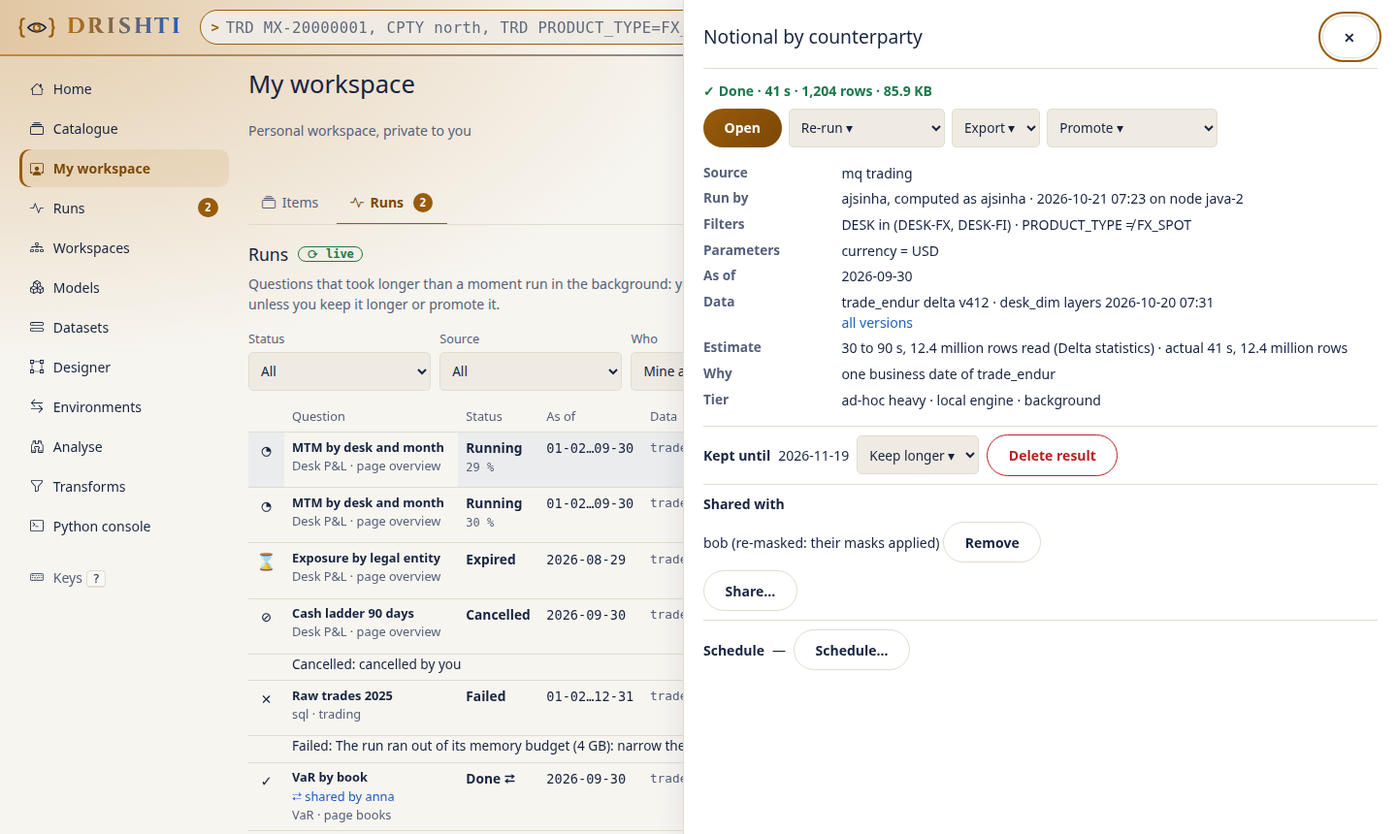
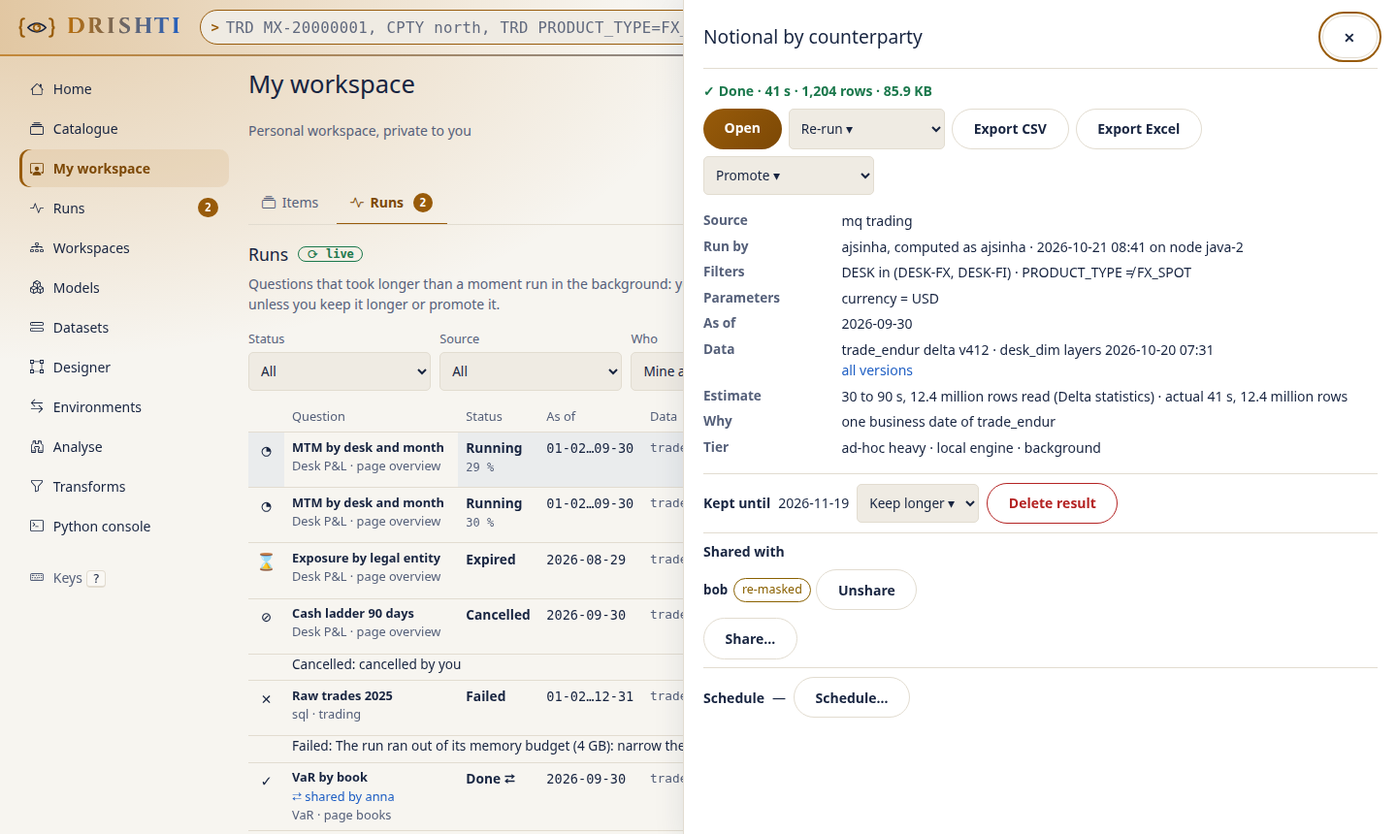
Docs: BI runs sharing (each recipient's mode, unshare, the recipient's view), schedules (presets, the grammar, edit, pause, remove), export (CSV, Excel) and rollup suggestions (Accept, Dismiss, the model designer's notice) in BI_RUNS_GUIDE with two new screenshots (run-share-schedule.png, rollup-sug

Changed region(s): [[0.5, 0.1512, 0.9688, 0.8465], [0.6562, 0.1209, 0.875, 0.1814], [0.5, 0.8163, 0.5625, 0.8465]]

diff --git a/drishti-console/tests/bi_runs_shots.py b/drishti-console/tests/bi_runs_shots.py
@@ -13,7 +13,8 @@
 # See the LICENSE file in the root of this repository for the full terms.
 
 """The pictures of BI runs for docs/guides/BI_RUNS_GUIDE.md, from the stand-in server of bi_runs_backend.py (synthetic data only):
-the Runs tab in a Terminal theme, the run card on a report while its run runs, and the drawer of a finished run in the light theme.
+the Runs tab in a Terminal theme, the run card on a report while its run runs, the drawer of a finished run in the light theme, its sharing and schedule
+in the Terminal theme, and the rollup suggestions of Admin → BI → Runs.
 
   drishti-console/.venv/bin/python drishti-console/tests/bi_runs_shots.py     (writes docs/guides/img/bi-runs/*.png)
 """
@@ -65,6 +66,38 @@ def main() -> None:
             page.evaluate("document.documentElement.setAttribute('data-theme', 'light')")
             page.wait_for_timeout(800)
             page.screenshot(path=str(OUT / "run-drawer-light.png"))
+
+            # sharing and a schedule: each recipient's mode as the server decided it, the next firing, the schedule form's presets
+            done["shared"]["with"] = [{"recipient": "bob", "mode": "re-masked", "recipientRun": None}, {"recipient": "dave", "mode": "same", "recipientRun": None},
+                                      {"recipient": "carol", "mode": "recomputed", "recipientRun": "r-java-2-01JAC4Q8Z6T3M4R9B0X1Y00042"}]
+            backend.schedules["sch-1"] = {"id": "sch-1", "runId": done["id"], "title": done["title"], "source": done["source"], "schedule": "business-days 07:30", "data": "latest",
+                                          "enabled": True, "lastRun": None, "nextAt": "2026-10-22T07:30:00Z", "createdAt": "2026-10-21T09:00:00Z", "owner": backend.user}
+            done["schedule"] = {k: v for k, v in backend.schedules["sch-1"].items() if k != "owner"}
+            page = ctx.new_page()
+            page.set_viewport_size({"width": 1440, "height": 1000})
+            page.goto(url + f"/bi/w/me?tab=runs&run={done['id']}")
+            page.wait_for_selector("[data-run-drawer]:not([hidden]) [data-run-share='carol']", timeout=15000)
+            page.evaluate("document.documentElement.setAttribute('data-theme', 'terminal')")
+            page.click("[data-run-sched-edit]")
+            page.select_option("[data-run-sched-form] select[name=kind]", "weekly")
+            page.select_option("[data-run-sched-form] select[name=day]", "mon")
+            page.fill("[data-run-sched-form] input[name=time]", "08:00")
+            page.evaluate("document.querySelector('[data-run-drawer]').scrollTop = 10000")
+            page.wait_for_timeout(800)
+            page.locator("[data-run-drawer]").screenshot(path=str(OUT / "run-share-schedule.png"))
+
+            # Admin → BI → Runs: the repeated heavy questions with Accept and Dismiss, one rollup's YAML open
+            page = ctx.new_page()
+            page.set_viewport_size({"width": 1440, "height": 900})
+            page.goto(url + "/admin/bi/runs#suggestions")
+            page.wait_for_selector('[data-sugg="sg-1"] [data-sugg-accept]', timeout=15000)
+            page.click('[data-sugg="sg-1"] summary')
+            page.evaluate("document.documentElement.setAttribute('data-theme', 'light')")
+            page.wait_for_timeout(800)
+            page.set_viewport_size({"width": 1440, "height": 640})
+            page.evaluate("window.scrollTo(0, document.getElementById('suggestions').getBoundingClientRect().top + window.scrollY - 90)")
+            page.wait_for_timeout(300)
+            page.screenshot(path=str(OUT / "rollup-suggestions.png"))
             b.close()
     finally:
         stop()

diff --git a/docs/guides/BI_RUNS_GUIDE.md b/docs/guides/BI_RUNS_GUIDE.md
@@ -26,8 +26,9 @@ is ready. A slicer, a cross-filter or a drill on a dashboard never becomes a run
 
 1. [The run card](#the-run-card) · 2. [Confirming a large run](#confirming-a-large-run) · 3. [A selection that needs a run](#a-selection-that-needs-a-run) ·
 4. [The Runs tab](#the-runs-tab) · 5. [One run: the drawer](#one-run-the-drawer) · 6. [Sharing a run](#sharing-a-run) ·
-7. [Promote a run](#promote-a-run) · 8. [The bell and the inbox](#the-bell-and-the-inbox) · 9. [On the command line](#on-the-command-line) ·
-10. [The Admin page for runs](#the-admin-page-for-runs) · 11. [The words for each state](#the-words-for-each-state)
+7. [Schedules](#schedules) · 8. [Export](#export) · 9. [Promote a run](#promote-a-run) · 10. [The bell and the inbox](#the-bell-and-the-inbox) ·
+11. [On the command line](#on-the-command-line) · 12. [The Admin page for runs](#the-admin-page-for-runs) ·
+13. [Rollup suggestions](#rollup-suggestions) · 14. [The words for each state](#the-words-for-each-state)
 
 ## The run card
 
@@ -42,6 +43,7 @@ The card says:
 * **Progress**, as a bar with its percentage and what is happening ("building 12 of 41 dates"). Progress is measured, never guessed. When the
   server cannot measure it, the card says "progress is not measured for this one" and shows no bar.
 * **Cancel** stops the run and frees everything it holds at once. **Open in Runs** opens the run in the [Runs tab](#the-runs-tab).
+* **Export CSV** and **Export Excel**, once the run is done (see [Export](#export)).
 
 When the run finishes while the page is open, the card turns into the chart without a reload. If you have left the page, the bell counts
 the run (see [the bell](#the-bell-and-the-inbox)).
@@ -113,26 +115,71 @@ server decides what each person may do with a run, and the drawer shows only tho
 | **Re-run ▾ on the same data** | The same question on the same dates and data versions. When the result is still stored, it is **reused** at once. |
 | **Re-run ▾ on the newest data** | The same question with relative dates (this year, latest) worked out again. |
 | **Cancel** | Stops a queued or running run. Its row says *Cancelled: cancelled by you*. |
-| **Export ▾** | CSV, Excel, Parquet, and PDF for a report visual, from the stored result: nothing is computed again. Masked cells stay masked. |
+| **Export CSV** · **Export Excel** | The stored result as a file, your own version of it: nothing is computed again, masked cells stay masked (see [Export](#export)). |
 | **Promote ▾** | To a dataset snapshot or a report, as a draft for review (see [Promote a run](#promote-a-run)). |
 | **Keep longer** | 90 days, 180 days or a year, instead of the 30 days after the last open. |
 | **Delete result** | Removes the stored result now. The run stays listed, as expired. |
-| **Share…** | See [Sharing a run](#sharing-a-run). |
-| **Schedule…** | The same question on a schedule (`daily 07:00`, `business-days 07:30`, `monthly last 18:00 business`, `after-load TRD`), on the newest data or the same dates. Each firing is a run and a notice. |
+| **Share…** · **Unshare** | See [Sharing a run](#sharing-a-run). |
+| **Schedule…** · **Edit** · **Pause** · **Remove** | See [Schedules](#schedules). |
 | **Run in background / Discard** | For a run waiting for your confirmation. |
 
 An expired run says when its result was removed, and offers both re-runs.
 
 ## Sharing a run
 
-**Share…** takes names and roles (`bob, role:risk-team`). A share never hands over your result as such. Each recipient gets what their own
-rights allow, and the drawer says which:
+![The drawer of a shared, scheduled run in the Terminal theme: bob re-masked, dave sees the same, carol recomputed as them with her own run; the schedule business-days 07:30 with its next firing, and the schedule form set to weekly on Monday at 08:00](img/bi-runs/run-share-schedule.png)
 
-* **sees your result**: they have exactly your rights;
-* **re-masked**: they see the same rows with their own extra masks applied (a masked column shows the mask, never a value);
-* **their own run**: their rights differ, so the question runs again as them, and they are told when it is ready.
+**Share…** opens a box with the people picker: type two letters of a name or a role and choose it (`↑` `↓`, `Enter`), and it becomes a
+chip; `×` takes it off. You can also type names, comma separated (`bob, role:risk-team`). A role is expanded to its members when you share.
+**Share** sends it. A share never hands over your result as such. The server decides, for each person, what their own rights allow, and
+the drawer lists each recipient with that decision:
 
-Ten people of one desk with equal rights cost one recomputation, not ten. **Remove** stops sharing with one person.
+| Shown as | Meaning |
+|---|---|
+| **sees the same** | they have exactly your rights: they read your stored result |
+| **re-masked** | the same rows with their own extra masks applied: a masked column shows the mask, never a value |
+| **recomputed as them** | their rights differ, so the question runs again as them (the drawer names their run), and they are told when it is ready |
+
+A person who may not read the model gets no share, and the drawer says so in words with the code ("Not shared with eve (DRS-9021)").
+Ten people of one desk with equal rights cost one recomputation, not ten. The decision is taken again each time they read it, so a
+recipient whose rights narrowed since is told to re-run it, never shown the wider answer.
+
+**Unshare** beside a recipient stops sharing with that person. A run recomputed as them stays theirs.
+
+**What a recipient sees.** The run is in their own Runs tab (**Who** set to *shared with me* or *both*), marked **⇄ shared by anna**. Its
+drawer says "Shared with you by anna. Masks hold: you see what your own rights allow." They can open and export it (their own version);
+sharing on, scheduling and deleting stay with the owner. The bell tells them when it was shared.
+
+## Schedules
+
+**Schedule…** in the drawer asks the same question again on a schedule, as you, at the time it fires (if you lose access, the firing fails
+and you are told; it never borrows anyone's rights). Choose how often from the presets and the form writes the schedule for you, shown
+under it ("Writes `weekly mon 08:00`"):
+
+| Preset | Writes |
+|---|---|
+| Daily at | `daily 07:00` |
+| Weekdays at | `weekdays 07:30` (Monday to Friday) |
+| Business days at | `business-days 07:30` (the calendar's business days) |
+| Weekly on | `weekly mon 08:00` |
+| Monthly, the last day at | `monthly last 18:00` |
+| Monthly, the last business day at | `monthly last 18:00 business` |
+| Written out | anything in the same grammar, typed |
+
+The grammar is the subscriptions' one ([API_GUIDE.md](API_GUIDE.md), `POST /api/v1/bi/runs/{id}/schedule`); `after-load` is not offered
+for runs. **On** chooses the newest data (relative dates worked out again at each firing) or the same dates. Times are the server's zone.
+
+Once scheduled, the drawer's **Schedule** line says what it is and when it fires next ("business-days 07:30 on the newest data · next
+2026-10-22 07:30 UTC"). **Edit** opens the form on it, **Pause** stops the firings until you **Resume**, and **Remove** deletes the
+schedule (the runs it made stay listed). Each firing is a visible background run, confirmed in advance, and a notice on the bell.
+
+## Export
+
+**Export CSV** and **Export Excel** download a finished run's result as a file. They are in the drawer, on the run card while a finished
+run's result is drawn, and on the line above a report drawn from a run (`?run=<id>`, "Drawn from the run of…"). The file is made by the
+server from the stored result, so nothing is computed again, and it is **your** version: a recipient of a share gets their re-masked or
+recomputed answer, and masked cells stay masked (the file's note names the masked columns). A very large result is cut at the export row
+limit, with a note saying so. Parquet and PDF are not offered for runs yet.
 
 ## Promote a run
 
@@ -161,7 +208,21 @@ r-java-2-01JAC4Q8Z6T3M4R9B0X1Y2Z3W5  queued  (expected 3 to 6 min)
   follow it:  drishti.py bi runs wait r-java-2-01JAC4Q8Z6T3M4R9B0X1Y2Z3W5
 $ python3 tools/drishti.py bi runs wait r-java-2-01JAC4Q8Z6T3M4R9B0X1Y2Z3W5 --timeout 30m      # exit 0 done, 3 failed, 4 cancelled, 5 still running
 $ python3 tools/drishti.py bi runs result r-java-2-01JAC4Q8Z6T3M4R9B0X1Y2Z3W5 --format csv --out pnl.csv
-$ python3 tools/drishti.py bi runs share r-java-2-01JAC4Q8Z6T3M4R9B0X1Y2Z3W5 --to bob --to role:risk-team
+$ python3 tools/drishti.py bi runs share r-java-2-01JAC4Q8Z6T3M4R9B0X1Y2Z3W5 --to bob --to carol --to eve
+bob: re-masked (your result with their extra masks)
+carol: recomputed as them (their rights differ: a run of their own) (run r-java-2-01JAC4Q8Z6T3M4R9B0X1Y2Z3W6)
+eve: not shared: eve may not read the model trading (DRS-9021)                      (on stderr)
+$ python3 tools/drishti.py bi runs unshare r-java-2-01JAC4Q8Z6T3M4R9B0X1Y2Z3W5 carol
+carol: no longer shared
+$ python3 tools/drishti.py bi runs schedule r-java-2-01JAC4Q8Z6T3M4R9B0X1Y2Z3W5 "weekly mon 08:00" --data latest
+sch-1  weekly mon 08:00  on latest data  next 2026-10-26 08:00
+$ python3 tools/drishti.py bi runs schedules edit sch-1 "business-days 07:30"     # also: schedules [list] | disable | enable | delete ID
+$ python3 tools/drishti.py bi runs export r-java-2-01JAC4Q8Z6T3M4R9B0X1Y2Z3W5 --format xlsx --out pnl.xlsx
+$ python3 tools/drishti.py bi runs suggestions --model trading                    # bi-admin
+sg-1  trading  desk x month  suggested  37 runs, about 4 min each
+    asked 37 times this week, about 4 min each: make it a rollup refreshed at load
+$ python3 tools/drishti.py bi runs suggestions accept sg-1                         # or: dismiss sg-1
+sg-1  accepted: the rollup is in the draft of trading (bi-model-...); review it and publish it
 ```
 
 `bi runs estimate` gives the tier, the engine and the estimate and runs nothing. A large question without `--yes` is refused with its estimate
@@ -174,8 +235,30 @@ and exit 2. `drishti.py bi mq FILE --async` and `drishti.py bi sql "…" --model
 standing and background, with the background cap), the interactive admission wait (the sign that background work is not slowing anyone),
 the queue per person, what runs now (with **Cancel**: the person is told an administrator cancelled it), the result store (results and
 snapshots, the biggest users), how accurate the estimates were, how many questions were answered inline, the settings file, and the heavy
-questions asked often enough that a rollup would answer them at once. It shows state, sizes and nodes, never a value.
-`drishti.py bi runs storage` prints the same.
+questions asked often enough that a rollup would answer them at once (see [Rollup suggestions](#rollup-suggestions)). It shows
+state, sizes and nodes, never a value. `drishti.py bi runs storage` prints the same.
+
+## Rollup suggestions
+
+The same heavy question asked again and again is better answered by a rollup in the model: then it is instant for everyone. The server
+counts the finished heavy model queries per model, grain and the shape of their filters (the field and the operator, never a value). When
+one is asked often enough (by default 5 times in 7 days, with a median of a minute or more), it becomes a suggestion with the rollup drafted.
+
+![Admin → BI → Runs, Repeated heavy questions in the light theme: desk × month on the trading model asked 37 times, about 4 min each, its rollup by_desk_month open, with Accept and Dismiss; counterparty asked 6 times](img/bi-runs/rollup-suggestions.png)
+
+**Repeated heavy questions** on `/admin/bi/runs` lists each one: the model, the grain and filters, how many runs, the typical time, its
+status, and **The rollup** (open it to read the YAML that would be added). For a BI administrator:
+
+* **Accept** adds the drafted rollup to the model's **draft**, under `rollups:` (the model's comments and order are kept). Nothing is
+  published: the change is reviewed and published like any other, and the message links to the model. For a model shipped in a pack the
+  suggestion is accepted with the YAML for you to add by hand.
+* **Dismiss** stops suggesting it.
+
+Once the model has a rollup at that grain the status says **Built**, and those questions are answered at once instead of becoming runs.
+While a model has open suggestions, its **model designer** shows a notice under the toolbar ("A heavy question on this model was asked 37
+times this week: a rollup would answer it at once. Review the suggested rollups") that opens this list for that model
+(`/admin/bi/runs?model=trading#suggestions`). The notice shows to BI administrators, who can accept. On the command line:
+`drishti.py bi runs suggestions [--model M]`, `suggestions accept ID`, `suggestions dismiss ID`.
 
 ## The words for each state
 

diff --git a/docs/architecture/BI_RUNS.md b/docs/architecture/BI_RUNS.md
@@ -1275,7 +1275,7 @@ Targeted tests only between steps, on the 10K-trade lake at most, one heavy proc
 | R5 | built, JSON results | `RunStore`: `results/<xx>/<key>/answer.json` (the answer with its rows, the signature it was computed for) and `owner.txt` (whose budget it counts against) under `store.dir`, written beside their names and moved with `FileSwap`; served only to the same signature; paging; `sweep` (retention by last open, **`store.max-bytes-per-user`: a person's least recently opened results go first, nobody else's**, `store.max-bytes`, stale temporary files) every `retention.sweep`; `usage()` gives bytes, count, the oldest open and the five largest users. The key is `sha256(question \| signature \| data version \| v1)`. **The data version of a planned MQ or SQL question is the hash of its data version vector** (every table and date read, `SourcePlugin.dataVersion(kind, date)`) with the model's hash, so a stored result is reused after a restart while the data is unchanged and never once a date is restated; a source without a version or a live table makes it not reusable. Questions without a footprint keep the in-process generation (a boot id is part of it). Report visuals have a personal signature (user and roles) and no data version: stored for their runner, never reused. Not built: Parquet via `COPY TO`, Arrow results |
 | R6 | built, except promotion | **Sharing** (`RunSharing`, `RunShares` over `drishti_bi_run_share`): `SecuritySignature.rowPart` (rules, denied layers, hidden columns, denied kinds; the reader for a personal model) and `maskPart` (`alias.column`) decide per recipient: `same` (equal signature), `re-masked` (equal row part, the recipient's masks ⊇ the runner's, the question validates as the recipient) or `recomputed` (a new run as the recipient, `shared_from` the original, the background class; equal signatures join one computation). **Corrected while building:** masking on output is *not* what the engine does for a grouping field: the engine does not group by a masked column, so its groups collapse into one. Re-masking therefore masks the value **and** collapses the groups, summing the measures, which is exact only when every measure is additive and there is no limit, top filter or totals; otherwise the share is recomputed. A SQL statement or a report visual is `same` or `recomputed`. **The decision is taken again at every read** as the recipient is now, so a recipient whose rights narrowed is refused `DRS-9021` ("re-run it"), never shown the wider answer. `role:x` expands to its members when shared; a person who may not read the model gets no share. The recipient sees the run in their list and `GET` (`asRecipient`), reads `/result` and exports their own version; the owner's run object lists `shared.with`. Notices name the sharer and the title only (`RunSharingTest`, 19.3: an admin sharing with a viewer is re-masked and equals the viewer's direct query; a viewer sharing with an admin is recomputed as the admin; other desks recomputed with no row of the runner's; a role of three, two alike, computes twice). **Export:** `POST /runs/{id}/export {format: csv|xlsx}` through `BiExporter.ofAnswer`, `CsvWriter`, `XlsxWriter` (`RunExportTest`). **Schedules** (`RunSchedules` over `drishti_bi_run_schedule`, `SubscriptionSchedule`'s grammar without `after-load`): each firing asks again as the owner now; an owner who lost access gets a failure and a notice; checked every 30 s; the run object's `schedule` (`RunSchedulesTest`). **Not built:** promotion (`DatasetDef.Source.RUN`, `Layers` reading `snapshots/`, promote to a report): `POST /runs/{id}/promote` answers `400` saying so |
 | R7 | restart only | `RunService.recover` at start: every unfinished row of this node is replayed as its runner (`Principals.of`, attempt + 1, up to `restart.max-attempts`) or failed `DRS-9085` with a reason; each change is published and told. Not built: leases, `ShardDirectory` wiring, forwarding, scatter, adoption |
-| R8 | mostly | `bi-run` notices through `BiNotifier.tell` on done, failed and cancelled-by-others (names and counts only, tested); metrics `drishti.bi.runs.submitted`, `finished`, `inline`, `reuse`, `seconds`, `estimate.ratio` (distribution, tags `basis`, `engine`), `cancel.release` (timer); `GET /api/v1/bi/admin/runs` in the shape of 14.5 (`RunAdmin`); the gauges `drishti.bi.runs.queue` (class), `running` (engine), `store.bytes` (kind `results`, `snapshots`); `GET /api/v1/bi/engine` adds `runs` (workers, running, queued, the engine runs execute on: `shared`, no second instance yet); `now.admissionWaitP95Ms` (`Admission.interactiveWaitP95Ms`), `accuracy.basis` and `storage.snapshots*` filled (`RunGaugesTest`). **8.3a suggestions built** (`RunSuggestions`): finished ad-hoc heavy model queries counted per model, grain and filters' shape (field and operator, never a value) in `suggest.window`; past `suggest.min-runs` with a median of `suggest.min-seconds` a suggestion with its rollup drafted; accept adds the rollup to the model's draft under `rollups:` (comments kept, reviewed as any change), dismiss; decisions in `<store.dir>/suggestions.json`; `built` once the model has a rollup over that table at that grain (`RunSuggestionsTest`). Not shown in the model designer yet (console lane) |
+| R8 | mostly | `bi-run` notices through `BiNotifier.tell` on done, failed and cancelled-by-others (names and counts only, tested); metrics `drishti.bi.runs.submitted`, `finished`, `inline`, `reuse`, `seconds`, `estimate.ratio` (distribution, tags `basis`, `engine`), `cancel.release` (timer); `GET /api/v1/bi/admin/runs` in the shape of 14.5 (`RunAdmin`); the gauges `drishti.bi.runs.queue` (class), `running` (engine), `store.bytes` (kind `results`, `snapshots`); `GET /api/v1/bi/engine` adds `runs` (workers, running, queued, the engine runs execute on: `shared`, no second instance yet); `now.admissionWaitP95Ms` (`Admission.interactiveWaitP95Ms`), `accuracy.basis` and `storage.snapshots*` filled (`RunGaugesTest`). **8.3a suggestions built** (`RunSuggestions`): finished ad-hoc heavy model queries counted per model, grain and filters' shape (field and operator, never a value) in `suggest.window`; past `suggest.min-runs` with a median of `suggest.min-seconds` a suggestion with its rollup drafted; accept adds the rollup to the model's draft under `rollups:` (comments kept, reviewed as any change), dismiss; decisions in `<store.dir>/suggestions.json`; `built` once the model has a rollup over that table at that grain (`RunSuggestionsTest`). The console lists them with Accept and Dismiss in Admin → BI → Runs and shows a notice in the model designer of a model with open ones (2.6.7, console follow-up) |
 
 ### 18.3 Together
 

diff --git a/CHANGELOG.md b/CHANGELOG.md
@@ -17,6 +17,18 @@
 
 ## Unreleased
 
+- **BI runs in the console: sharing, schedules, export and rollup suggestions (2.6.7, BI_RUNS_GUIDE.md).** The run drawer's **Share…**
+  takes people and roles from the people picker (chips; names typed comma separated work too) and lists each recipient with the mode the
+  server decided: *sees the same*, *re-masked* or *recomputed as them* (their run named), a refusal said in words with its code; **Unshare**
+  per recipient. A recipient sees the run in their Runs tab marked *shared by* its owner, opens and exports their own version. **Schedule…**
+  has presets (daily, weekdays, business days, weekly on a day, monthly on the last day or business day, or written out) that write the
+  subscription grammar, shows it before saving, and the drawer shows the schedule with its next firing, **Edit**, **Pause**/**Resume** and
+  **Remove**. **Export CSV** and **Export Excel** in the drawer, on the run card and above a report drawn from a run. **Admin → BI → Runs**
+  lists the rollup suggestions with their YAML, **Accept** (into the model's draft, for review) and **Dismiss**; the **model designer**
+  shows a notice linking to its model's open suggestions. **Run as SQL** in the report designer's query panel asks with the inline wait
+  and shows the run card past it. CLI: `bi runs unshare`, `bi runs schedules edit`, `bi runs suggestions [list|accept|dismiss]`, `bi runs
+  export --format csv|xlsx`, and completion. Help cards `run-share`, `run-schedule`, `run-export`, `run-suggestions`. Not yet: Analyse's
+  SQL cells keep asking synchronously.
 - **BI runs: sharing, rollup suggestions, export, schedules, statements and the Admin numbers (2.6.7, BI_RUNS.md 18.2b).** **Sharing
   (R6, 9.3):** `POST /api/v1/bi/runs/{id}/share {to: [bob, role:risk-team]}` decides per person from the row part and the mask part of the
   security signature: `same` (equal rights: the stored result), `re-masked` (the same rows, more masks: the extra columns masked as the engine

diff --git a/docs/guides/TOOLS.md b/docs/guides/TOOLS.md
@@ -846,11 +846,14 @@ Transform's inputs as you see them, masked columns and a profile of each column,
 `tools/bitransform.py`, loaded by `drishti.py`; [PYTHON_BI.md section 17](PYTHON_BI.md#17-data-prep-the-transform-editor-240)). A write needs the
 `bi:write` scope.
 
-**BI runs (2.6.7, `tools/biruns.py`)**: `bi runs list|get|submit|estimate|wait|result|cancel|rerun|export|share|promote|keep|schedule|schedules|storage`,
+**BI runs (2.6.7, `tools/biruns.py`)**: `bi runs list|get|submit|estimate|wait|result|cancel|rerun|export|share|unshare|promote|keep|schedule|schedules|storage|suggestions`,
 and `--async [--wait 2s]` on `bi mq` and `bi sql`, which send `Prefer: respond-async` and print the run's id when the answer is a `202`.
 `bi runs wait` exits 0 done, 3 failed, 4 cancelled and 5 when its `--timeout` passes with the run still going; `bi runs submit` without
 `--yes` exits 2 on a large question and prints its estimate; `bi runs storage` is the bi-admin's view of the result store and the queue.
-The guide with output: [BI_RUNS_GUIDE.md](BI_RUNS_GUIDE.md#on-the-command-line).
+`bi runs share RUN --to WHO` prints each recipient's mode (sees the same, re-masked, recomputed as them; a refusal on stderr) and `unshare
+RUN WHO...` removes recipients; `bi runs schedule RUN "weekly mon 08:00"` and `schedules [list|edit ID WHEN|disable|enable|delete ID]`
+use the subscription grammar; `bi runs export RUN --format csv|xlsx --out FILE`; `bi runs suggestions [--model M] [accept|dismiss ID]`
+is the bi-admin's list of rollup suggestions. The guide with output: [BI_RUNS_GUIDE.md](BI_RUNS_GUIDE.md#on-the-command-line).
 
 ```bash
 drishti-console/.venv/bin/python tools/drishti.py bi runs submit --mq year.mq.json --yes --wait 0

diff --git a/docs/guides/CLI_GUIDE.md b/docs/guides/CLI_GUIDE.md
@@ -2366,8 +2366,8 @@ fail  Close to 100 trades: expected 100 ± 1%, found 750
 
 ### `bi runs`, `bi mq --async`, `bi sql --async`: BI runs (2.6.7)
 
-`drishti.py bi runs list|get|submit|estimate|wait|result|cancel|rerun|export|share|promote|keep|schedule|schedules|storage` does what the BI
-Runs tab does, as the token's user; `bi mq` and `bi sql` take `--async [--wait 2s]`. Examples, exit codes and output: [BI_RUNS_GUIDE.md](BI_RUNS_GUIDE.md#on-the-command-line)
+`drishti.py bi runs list|get|submit|estimate|wait|result|cancel|rerun|export|share|unshare|promote|keep|schedule|schedules|storage|suggestions` does what the BI
+Runs tab does (sharing, schedules, CSV and Excel export, and for a bi-admin the rollup suggestions), as the token's user; `bi mq` and `bi sql` take `--async [--wait 2s]`. Examples, exit codes and output: [BI_RUNS_GUIDE.md](BI_RUNS_GUIDE.md#on-the-command-line)
 and [TOOLS.md section 5.7](TOOLS.md#57-bi).
 
 ### `bi statement`
